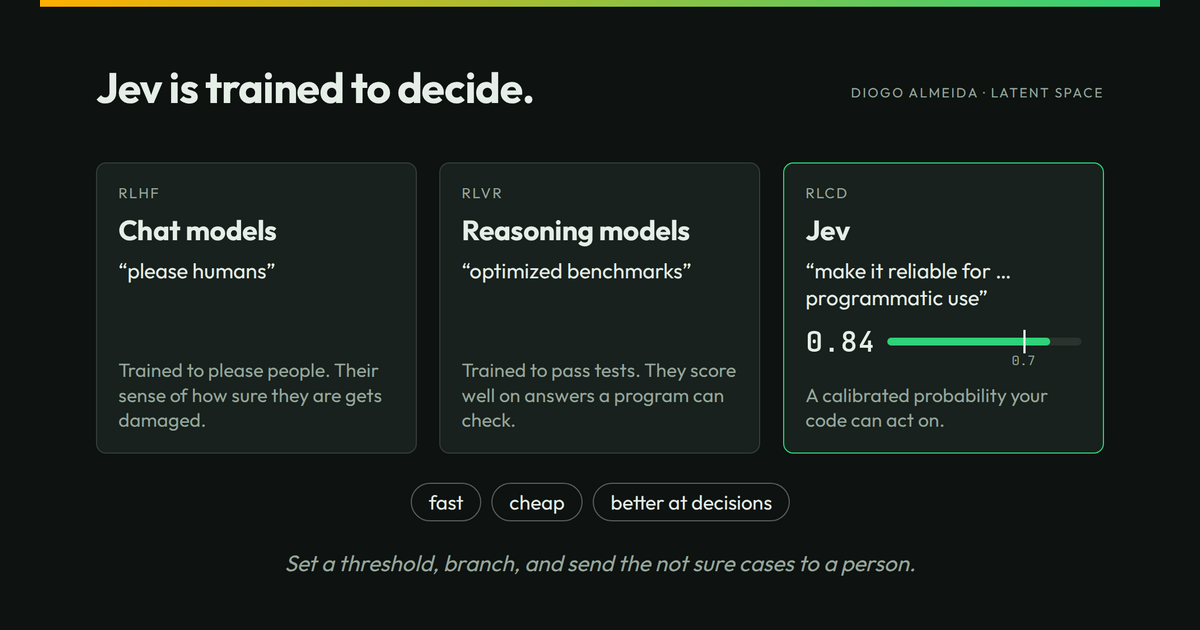
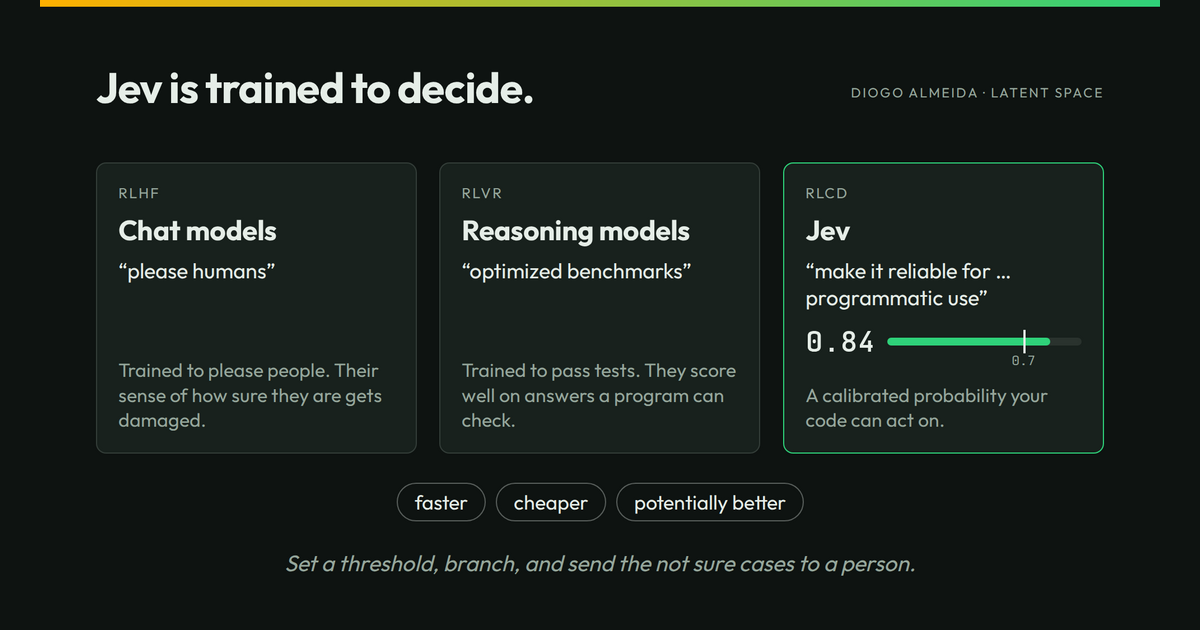
Frame better as the bet on the social card and name RLHF and RLCD in the lead

Changed region(s): [[0.3392, 0.754, 0.6783, 0.8444]]

diff --git a/site/src/articles/jev-is-trained-to-decide.md b/site/src/articles/jev-is-trained-to-decide.md
@@ -6,14 +6,14 @@ date: "2026-10-02"
 goal: "Explain why people are excited about Jev: it is faster and cheaper, and the big bet is that a model trained for calibrated decisions beats one trained to please people."
 blurb: "Jev is faster and cheaper, and potentially better. The big bet: software needs a model trained to make calibrated decisions, and chat models were trained to please people."
 card: /og/jev-is-trained-to-decide.png
-cardAlt: "Jev is trained to decide. RLHF chat models please humans. RLVR reasoning models optimize benchmarks. RLCD trains Jev for programmatic use, with a calibrated probability of 0.84 over a threshold of 0.7. Fast, cheap, better at decisions."
+cardAlt: "Jev is trained to decide. RLHF chat models please humans. RLVR reasoning models optimize benchmarks. RLCD trains Jev for programmatic use, with a calibrated probability of 0.84 over a threshold of 0.7. Faster and cheaper. Better at decisions is the bet."
 links:
   - { href: "/how-tos/search-youtube-transcripts-by-meaning/", text: "Search YouTube transcripts by meaning" }
 ---
 
 People are excited about Jev because it is faster and cheaper, and potentially better. You can measure faster and cheaper today. Better is a bet.
 
-Here is the bet. Large language models were trained with a human in the loop. They learned to give answers people like. Agents, automation and software need something else. They need a model optimized for making decisions. TypeSafe trains Jev for that. Nobody has proven yet that this approach wins. That is the big bet, and it is why people are excited.
+Here is the bet. Large language models were trained with a human in the loop. That training is called RLHF. They learned to give answers people like. Agents, automation and software need something else. They need a model optimized for making decisions. TypeSafe trains Jev for that, with a method it calls RLCD. Nobody has proven yet that this approach wins. That is the big bet, and it is why people are excited.
 
 <!-- video: YbzrlpAyCV4 | TT | ThinkThen introduction | 2026-10-01 | 24:38 -->
 <!-- video: cFx9Z3ZXca0 | LS | Latent Space Pod | 2026-09-21 | 2:22:22 -->
@@ -29,7 +29,7 @@ You can check speed and cost today. The bet is about how the model is trained.
 
 ## Chat models are trained to please you
 
-A chat model learns from people's feedback. People rate its answers, and the model learns to give the answers people like. That training is called RLHF. Diogo puts it in three words: "[RLHF] is please humans" ([LS 1:23:12](https://youtu.be/cFx9Z3ZXca0?t=4992)).
+A chat model learns from people's feedback. People rate its answers, and the model learns to give the answers people like. Diogo puts it in three words: "[RLHF] is please humans" ([LS 1:23:12](https://youtu.be/cFx9Z3ZXca0?t=4992)).
 
 Pleasing people has a cost. A Latent Space host asked whether chat models are "collapsing towards what you want to hear the most … instead of like their own internal confidence about a thing" ([LS 7:15](https://youtu.be/cFx9Z3ZXca0?t=435)). Diogo answered with the problem he says "no one paid attention to": "the downsides of [RLHF], in particular, mode dropping" ([LS 7:39](https://youtu.be/cFx9Z3ZXca0?t=459)).
 
@@ -61,7 +61,7 @@ Ask Jev to pick, and it gives each tool a probability. Say the search tool gets 
 
 ## Will the bet pay off?
 
-I think it will. Most of the work I want to automate is a chain of small decisions. Each decision needs an honest answer and an honest sense of how sure it is. A model trained to please me can't give me the second part. A model trained to be calibrated can.
+I think it will. Most of the work I want to automate is a chain of small decisions. Each decision needs an honest answer and an honest sense of how sure it is. A model trained to please me can't give me the second part. A model trained to be calibrated should.
 
 Calibration is still a claim until you check it on your own cases. Label some real examples and measure before you pick a threshold. [Test it before you trust it](/trust/) shows how.
 
